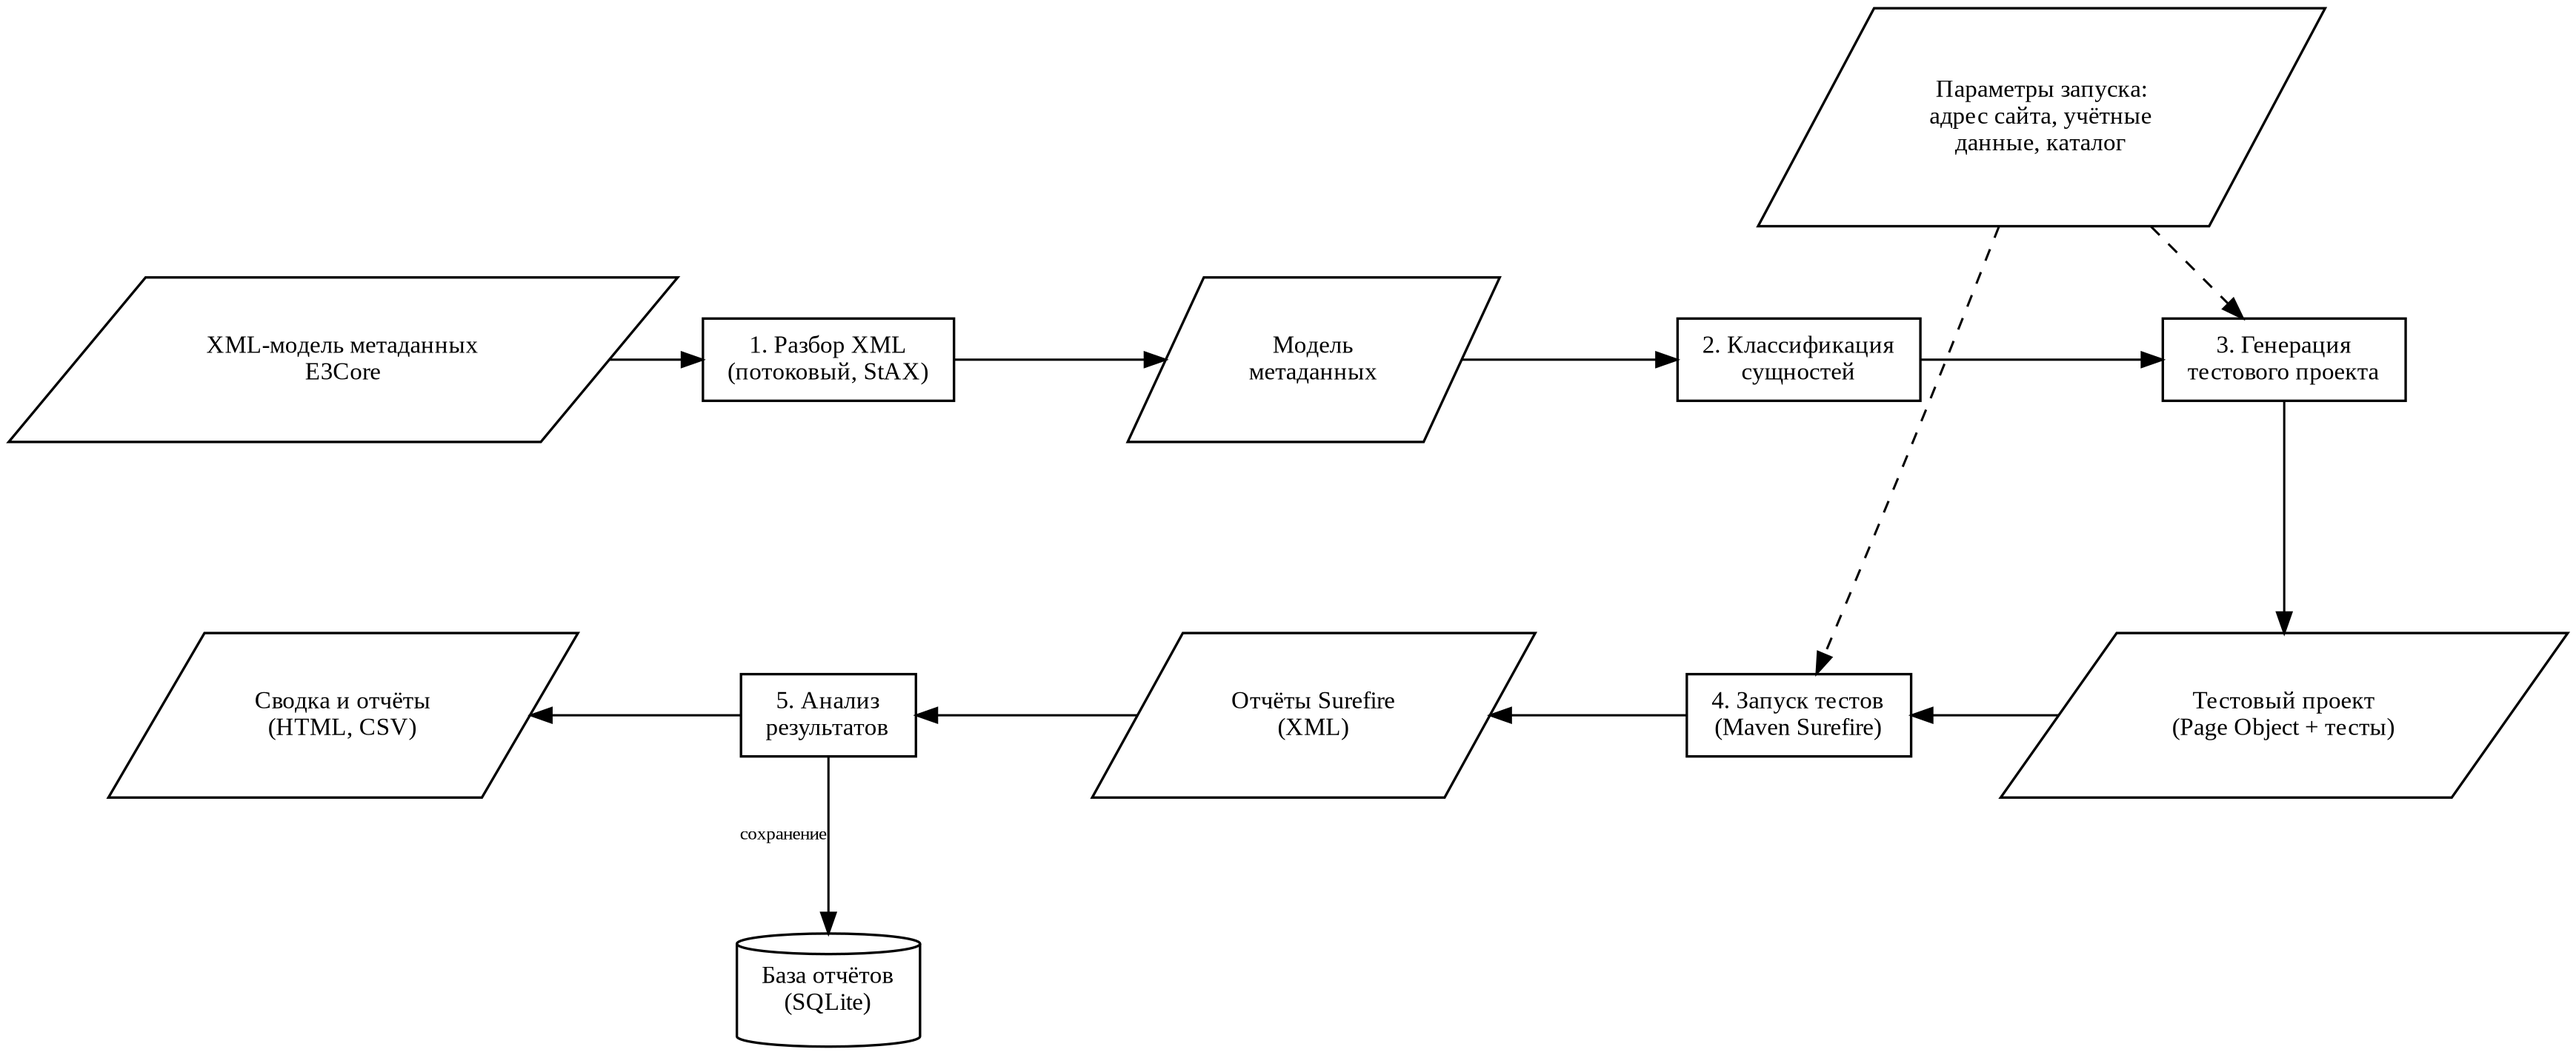
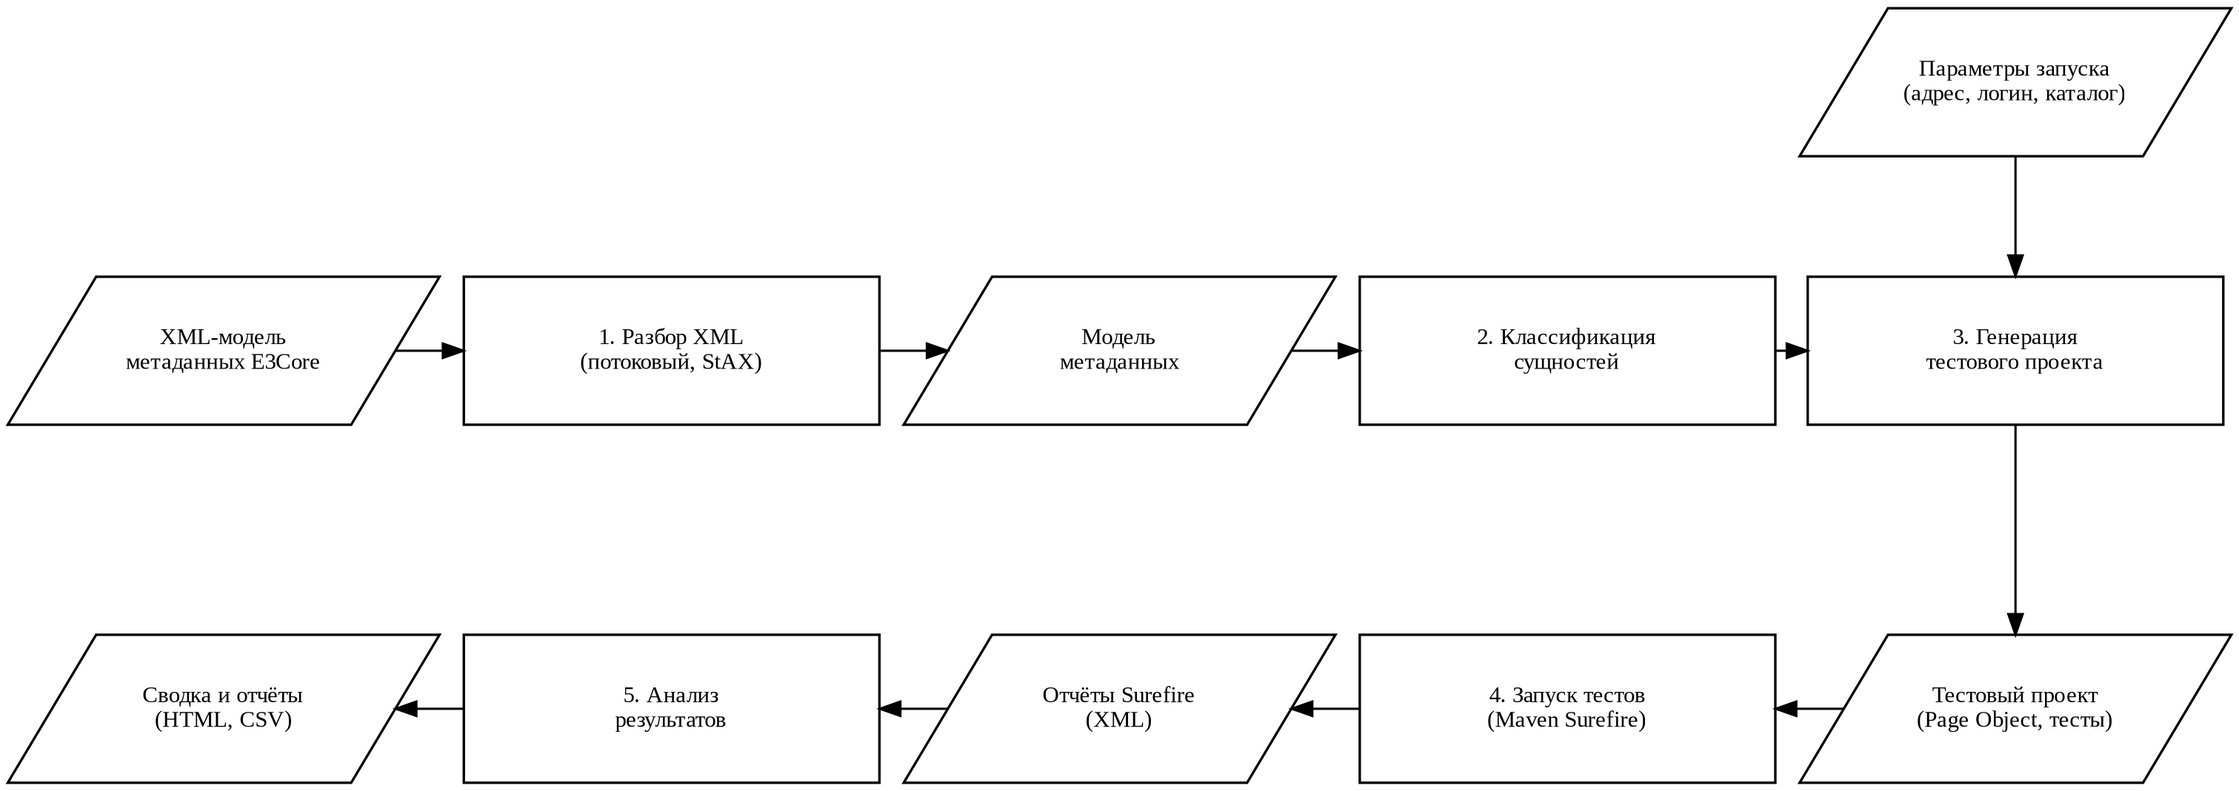
Рис.2 горизонтальная: убрана БД, единый вход параметров запуска до генерации, все блоки одного размера

diff --git a/diagrams_1_3/scripts/gen_ris2_pipeline_horizontal.py b/diagrams_1_3/scripts/gen_ris2_pipeline_horizontal.py
@@ -12,44 +12,38 @@ from PIL import Image
 OUT = os.path.join(os.path.dirname(os.path.abspath(__file__)), "..")
 FONT = "Liberation Serif"
 
-# узел: (id, label, shape, x, y)
+# узел: (id, label, shape, x, y). Все блоки — одного размера (fixedsize).
 NODES = [
-    ("in1", "XML-модель метаданных\\nE3Core", "parallelogram", 0, 2.2),
-    ("p1",  "1. Разбор XML\\n(потоковый, StAX)", "box", 3.0, 2.2),
-    ("d1",  "Модель\\nметаданных", "parallelogram", 6.0, 2.2),
-    ("p2",  "2. Классификация\\nсущностей", "box", 9.0, 2.2),
-    ("p3",  "3. Генерация\\nтестового проекта", "box", 12.0, 2.2),
-    ("d2",  "Тестовый проект\\n(Page Object + тесты)", "parallelogram", 12.0, 0.0),
+    ("in1", "XML-модель\\nметаданных E3Core", "parallelogram", 0, 2.4),
+    ("p1",  "1. Разбор XML\\n(потоковый, StAX)", "box", 3.0, 2.4),
+    ("d1",  "Модель\\nметаданных", "parallelogram", 6.0, 2.4),
+    ("p2",  "2. Классификация\\nсущностей", "box", 9.0, 2.4),
+    ("p3",  "3. Генерация\\nтестового проекта", "box", 12.0, 2.4),
+    ("d2",  "Тестовый проект\\n(Page Object, тесты)", "parallelogram", 12.0, 0.0),
     ("p4",  "4. Запуск тестов\\n(Maven Surefire)", "box", 9.0, 0.0),
     ("d3",  "Отчёты Surefire\\n(XML)", "parallelogram", 6.0, 0.0),
     ("p5",  "5. Анализ\\nрезультатов", "box", 3.0, 0.0),
     ("out", "Сводка и отчёты\\n(HTML, CSV)", "parallelogram", 0, 0.0),
-    ("par", "Параметры запуска:\\nадрес сайта, учётные\\nданные, каталог", "parallelogram", 10.5, 3.7),
-    ("db",  "База отчётов\\n(SQLite)", "cylinder", 3.0, -1.7),
+    ("par", "Параметры запуска\\n(адрес, логин, каталог)", "parallelogram", 12.0, 4.2),
 ]
 EDGES = [
     ("in1", "p1", ""), ("p1", "d1", ""), ("d1", "p2", ""), ("p2", "p3", ""),
     ("p3", "d2", ""),  # переход на нижний ряд
     ("d2", "p4", ""), ("p4", "d3", ""), ("d3", "p5", ""), ("p5", "out", ""),
-    ("par", "p3", "dashed"), ("par", "p4", "dashed"),
-    ("p5", "db", "save"),
+    ("par", "p3", ""),  # единый вход параметров запуска — до генерации
 ]
 
 ns = []
 for nid, label, shape, x, y in NODES:
-    ns.append(f'{nid} [label="{label}", shape={shape}, style=filled, fillcolor=white, pos="{x},{y}!"];')
+    ns.append(f'{nid} [label="{label}", shape={shape}, style=filled, fillcolor=white, '
+              f'fixedsize=true, width=2.8, height=1.0, pos="{x},{y}!"];')
 es = []
 for s, d, kind in EDGES:
-    if kind == "dashed":
-        es.append(f'{s} -> {d} [style=dashed];')
-    elif kind == "save":
-        es.append(f'{s} -> {d} [label="сохранение", fontsize=9];')
-    else:
-        es.append(f'{s} -> {d};')
+    es.append(f'{s} -> {d} [style=dashed];' if kind == "dashed" else f'{s} -> {d};')
 
 dot = f'''digraph Pipeline {{
   layout=neato; bgcolor=white; fontname="{FONT}"; splines=true; overlap=false; sep="+6";
-  node [fontname="{FONT}", fontsize=12, color=black, fontcolor=black, penwidth=1.2, margin="0.16,0.10"];
+  node [fontname="{FONT}", fontsize=11, color=black, fontcolor=black, penwidth=1.2];
   edge [fontname="{FONT}", fontsize=11, color=black, fontcolor=black, arrowhead=normal, penwidth=1.1];
 {chr(10).join(ns)}
 {chr(10).join(es)}
